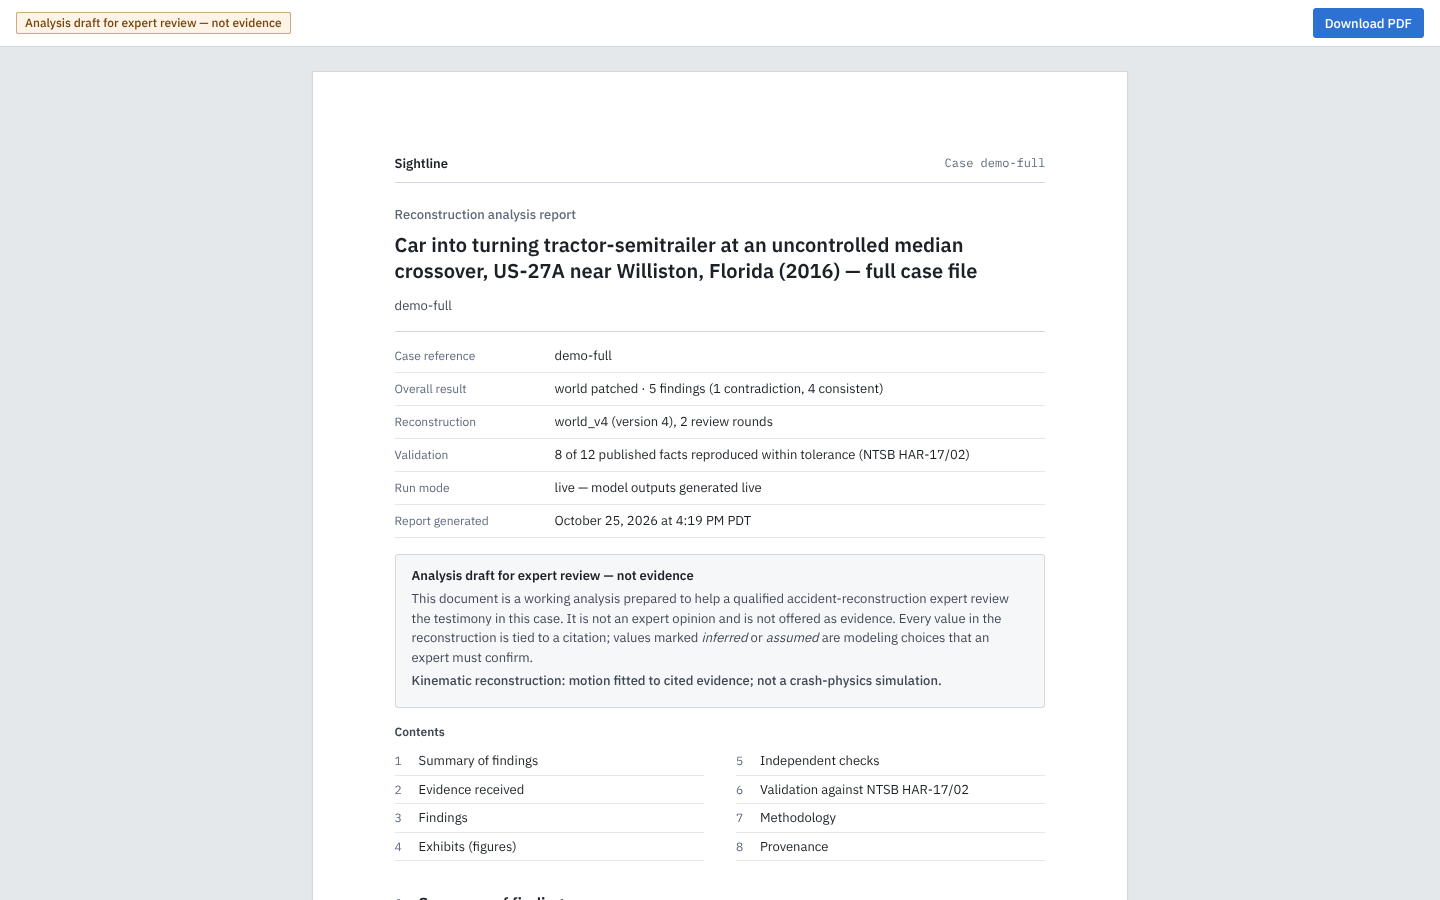
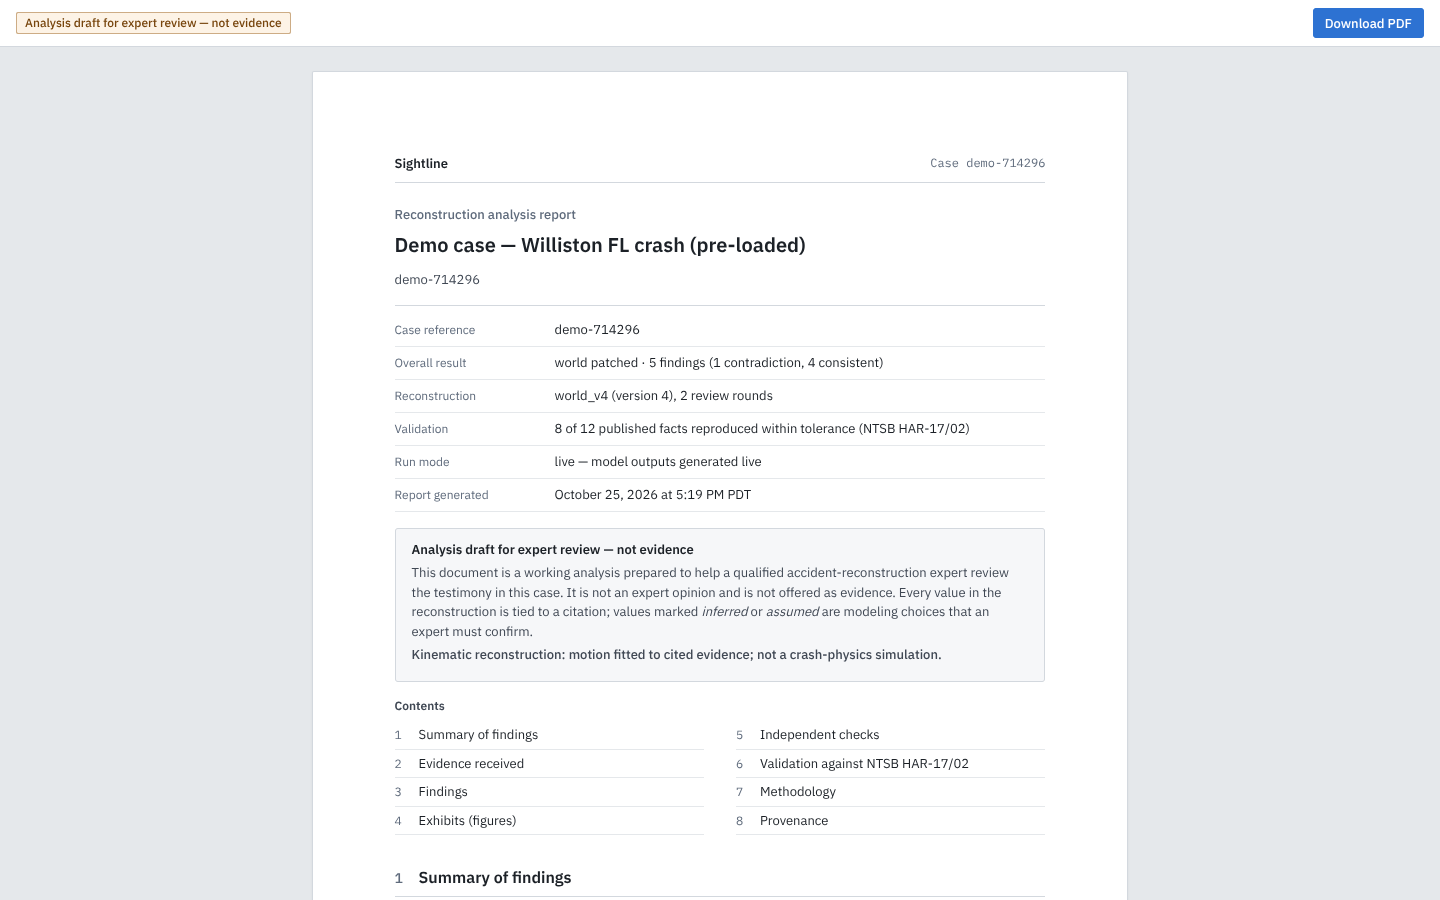
README: fresh walkthrough screenshots (Witness B view, overhead, report) + Managed Agents panel
Claude-Session: https://claude.ai/code/session_01L8QVXY7GTJyNdbxTzpiSbG

Changed region(s): [[0.2812, 0.2489, 0.7188, 1.0], [0.5, 0.8089, 0.6875, 0.9644], [0.6562, 0.1556, 0.7188, 0.1867]]

diff --git a/README.md b/README.md
@@ -173,6 +173,8 @@ World modules follow a fixed contract (`SPEC.md`). Each is a plain ES module tha
 
 ## Managed Agents verification
 
+![Managed Agents panel: 23 sandboxed agents, verdicts vs local checks](docs/walkthrough/8_managed_agents.png)
+
 `argon/fleet.mjs`: Argon (gemini-4-argon) reads the current checks and findings and plans verification jobs. Each job runs as its own Google-hosted Managed Agent: the Antigravity agent on gemini-3.8-flash, in a 10-vCPU Linux sandbox that mounts the public repo and receives the exact world file inline. The jobs cover sightline, robustness discs, gaze, perception-reaction time, speed and time what-ifs, and a CPU software render with pixel visibility. Argon then merges the returned result files against the local checks.
 
 Live run on demo-full (world_v4): **23 agents, 23 ok, 492 s wall against an 8,135 s sequential estimate (16.5×), all 9 check verdicts reproduced, no code drift**. Witness B stays blocked within 0.5–3 m of her mark (23/25 at 5 m), across t = 7.9–11.9 s, and with Vehicle A's speed scaled ×0.7–1.3. Reported disagreement: pixel renders of the two driving witnesses count their own cab as blocking, while the ray-cast excludes it. The API key is never placed in a prompt, source, environment variable or sandbox. Results: `cases/demo-full/cache/fleet/`.
